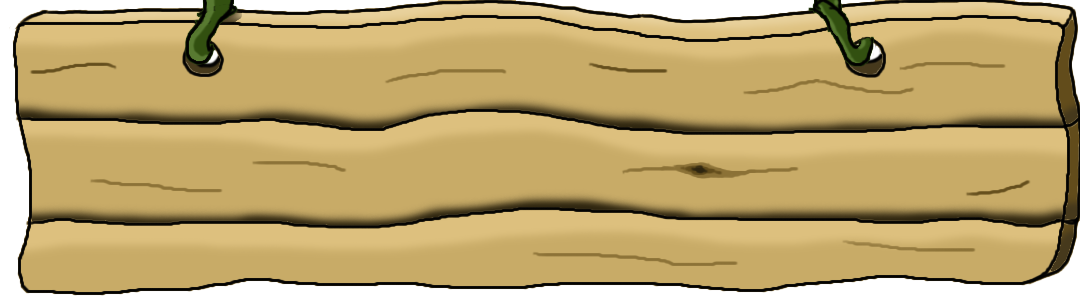
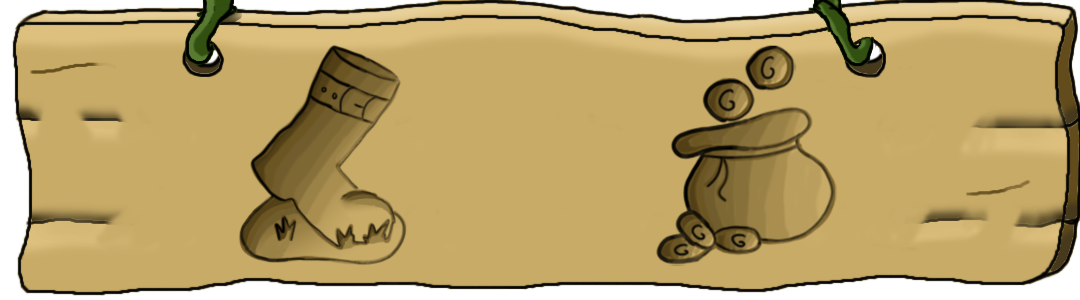
New header art

diff --git a/core/src/fi/tuni/tiko/GameHeader.java b/core/src/fi/tuni/tiko/GameHeader.java
@@ -30,7 +30,6 @@ public class GameHeader extends Table {
      * @param party reference to the game's party
      */
     public GameHeader (float height, final Party party) {
-        if (Main.debug) debug();
         this.party = party;
         this.header = this;
 
@@ -42,8 +41,6 @@ public class GameHeader extends Table {
         String steps = Integer.toString(party.getSteps());
         String gold = Integer.toString(party.getGold());
 
-        Skin skin = Scene.getSkin();
-        ImageButton stepImage = new ImageButton(Utils.loadButtonImage("boot.png", buttonWidth, buttonHeight));
         stepCount = new RetkueLabel(steps);
         stepCount.setAlignment(1);
         ImageButton convert = new ImageButton(Utils.loadButtonImage("arrow.png", buttonWidth, buttonHeight));
@@ -55,15 +52,12 @@ public class GameHeader extends Table {
             }
         });
 
-        ImageButton goldImage = new ImageButton(Utils.loadButtonImage("gold-sack.png", buttonWidth, buttonHeight));
         goldCount = new RetkueLabel(gold);
         goldCount.setAlignment(1);
 
-        add(stepImage).width(elementWidth).padBottom(10);
-        add(stepCount).width(elementWidth).center();
+        add(stepCount).width(elementWidth).center().padRight(50);
         add(convert).width(elementWidth);
-        add(goldImage).width(elementWidth).padBottom(10);
-        add(goldCount).width(elementWidth).center();
+        add(goldCount).width(elementWidth).center().padLeft(50);
         background(Utils.loadButtonImage("retkue_header_wood.png", 0, 0));
     }
 
